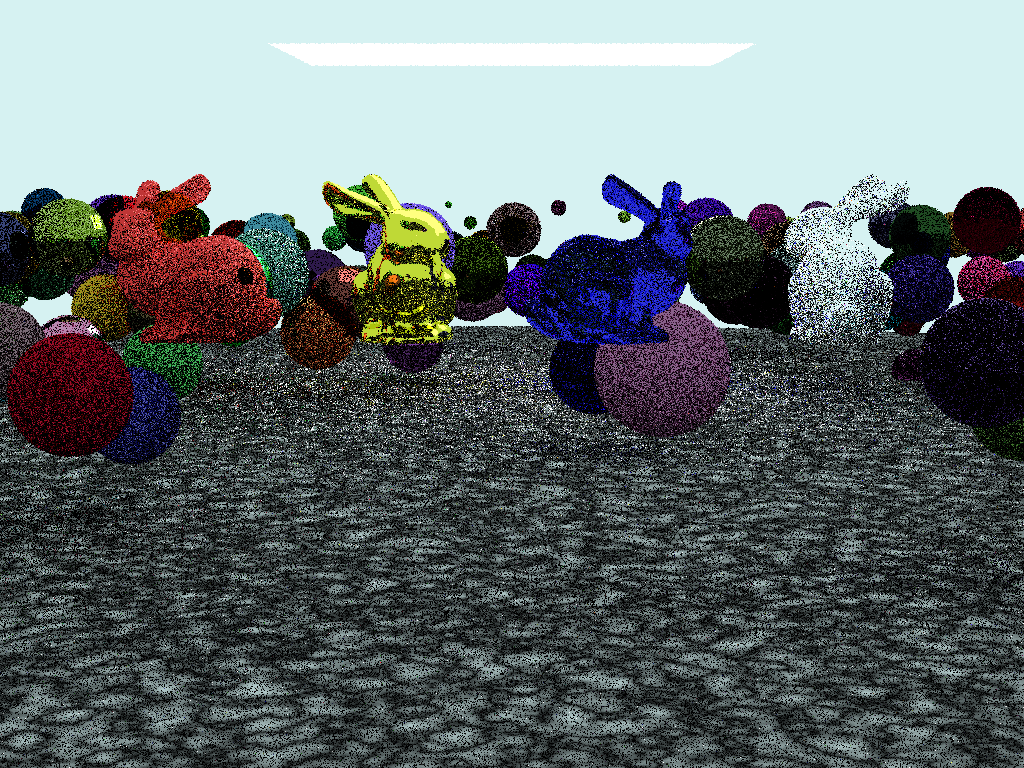
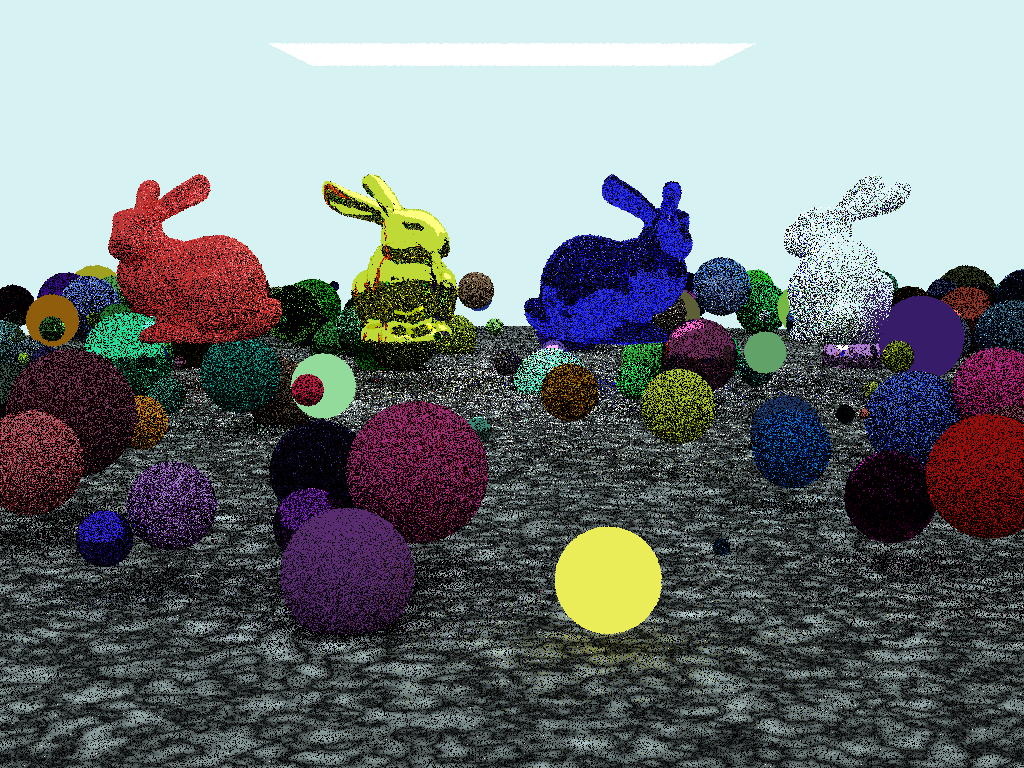
#1 Depth order error is caused by scale operation

diff --git a/scene/planeandbunny.h b/scene/planeandbunny.h
@@ -22,22 +22,23 @@ std::vector<std::shared_ptr<Primitive>> scene() {
     const int num_sphere = 300;
     for(int i=0; i<num_sphere; i++) {
         auto x = (random_double() * 2.0f - 1.0f) * sphere_field;
-        auto y = random_double() * 5.0f + 2.5f;
+        auto y = random_double() * 2.5f;
         auto z = (random_double() * 2.0f - 1.0f) * sphere_field;
         ts.pushMatrix();
         ts.translate(vec3(x, y, z));
-        ts.scale(random_double() * 2.0f);
+        // ts.scale(random_double() * 2.0f);
         auto albedo = vec3::random() * vec3::random();
         
         double rnd = random_double();
         std::shared_ptr<Material> mat_ptr;
-        if(rnd < 0.5f) mat_ptr = std::make_shared<Lambertian>(albedo);
+        if(rnd < 0.5f)      mat_ptr = std::make_shared<Lambertian>(albedo);
         else if(rnd < 0.7f) mat_ptr = std::make_shared<Dielectric>(albedo, 1.52);
-        else if(rnd < 1.0f) mat_ptr = std::make_shared<Metal>(albedo, 0.0f);
+        else if(rnd < 0.9f) mat_ptr = std::make_shared<Metal>(albedo, 0.0f);
+        else                mat_ptr = std::make_shared<Emitter>(albedo, 5.0f);
 
         primitives.emplace_back(
             std::make_shared<ShapePrimitive>(
-                createSphereShape(vec3(0, 0, 0), 1.0f),
+                createSphereShape(vec3(0, 0, 0), random_double() * 2.0f),
                 mat_ptr,
                 std::make_shared<Transform>(ts.getCurrentTransform())
             ));
@@ -62,11 +63,11 @@ std::vector<std::shared_ptr<Primitive>> scene() {
     // bunny 1
     ts.pushMatrix();
     ts.translate(vec3(-15, 5, 0));
-    ts.scale(50.0f);
+    // ts.scale(50.0f);
 
     auto albedo = vec3(0.8, 0.05, 0.05);
     std::shared_ptr<Material> bunny_lambert = std::make_shared<Lambertian>(albedo);
-    auto bunny = createTriangleMesh("data/model/bunny.obj", vec3(0.0f), 1.0f, vec3(1,1,1), true);
+    auto bunny = createTriangleMesh("data/model/bunny.obj", vec3(0.0f), 50.0f, vec3(1,1,1), true);
     auto bunny_transform = std::make_shared<Transform>(ts.getCurrentTransform());
 
     for(auto &triangle : bunny) {
@@ -80,11 +81,11 @@ std::vector<std::shared_ptr<Primitive>> scene() {
     ts.pushMatrix();
     ts.translate(vec3(-5, 5, 0));
     ts.rotateY(pi/2.f);
-    ts.scale(50.0f);
+    // ts.scale(50.0f);
 
     albedo = vec3(0.80, 0.80, 0.05);
     bunny_lambert = std::make_shared<Metal>(albedo, 0.0f);
-    bunny = createTriangleMesh("data/model/bunny.obj", vec3(0.0f), 1.0f, vec3(1,1,1), true);
+    bunny = createTriangleMesh("data/model/bunny.obj", vec3(0.0f), 50.0f, vec3(1,1,1), true);
     bunny_transform = std::make_shared<Transform>(ts.getCurrentTransform());
 
     for(auto &triangle : bunny) {
@@ -98,11 +99,11 @@ std::vector<std::shared_ptr<Primitive>> scene() {
     ts.pushMatrix();
     ts.translate(vec3(5, 5, 0));
     ts.rotateY(pi);
-    ts.scale(50.0f);
+    // ts.scale(50.0f);
 
     albedo = vec3(0.05, 0.05, 0.80);
     bunny_lambert = std::make_shared<Dielectric>(albedo, 1.52f);
-    bunny = createTriangleMesh("data/model/bunny.obj", vec3(0.0f), 1.0f, vec3(1,1,1), true);
+    bunny = createTriangleMesh("data/model/bunny.obj", vec3(0.0f), 50.0f, vec3(1,1,1), true);
     bunny_transform = std::make_shared<Transform>(ts.getCurrentTransform());
 
     for(auto &triangle : bunny) {
@@ -116,11 +117,11 @@ std::vector<std::shared_ptr<Primitive>> scene() {
     ts.pushMatrix();
     ts.translate(vec3(15, 5, 0));
     ts.rotateY(3.f*pi/2.f);
-    ts.scale(50.0f);
+    // ts.scale(50.0f);
 
     albedo = vec3(1.0f);
     bunny_lambert = std::make_shared<Lambertian>(albedo);
-    bunny = createTriangleMesh("data/model/bunny.obj", vec3(0.0f), 1.0f, vec3(1,1,1), true);
+    bunny = createTriangleMesh("data/model/bunny.obj", vec3(0.0f), 50.0f, vec3(1,1,1), true);
     bunny_transform = std::make_shared<Transform>(ts.getCurrentTransform());
 
     for(auto &triangle : bunny) {
